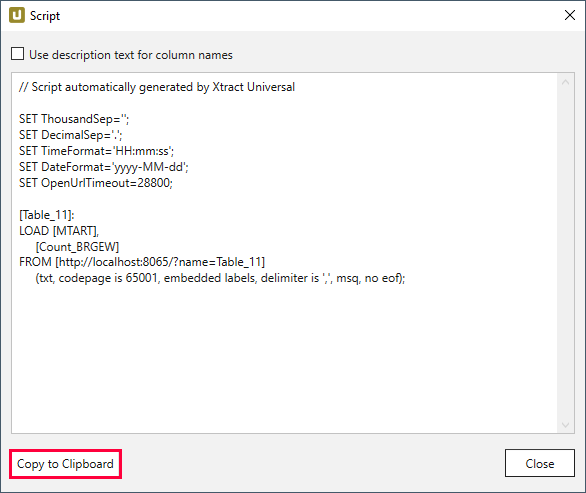
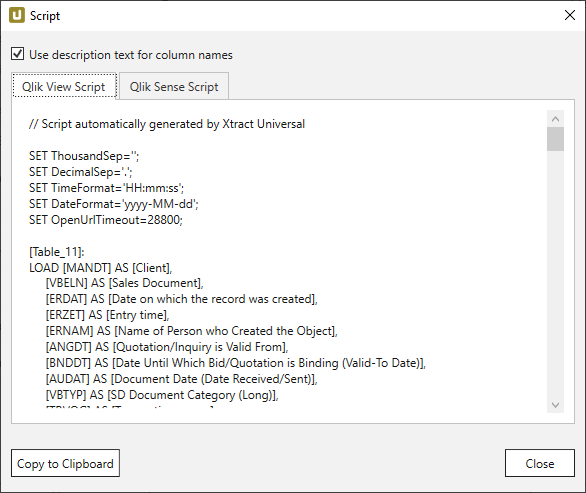
XU - EN - Qlik Destination überarbeitet

diff --git a/content/_en/xtract-universal/xu-destinations/qliksense-qlikview/settings-in-qlik-sense.md b/content/_en/xtract-universal/xu-destinations/qliksense-qlikview/settings-in-qlik-sense.md
@@ -1,28 +1,38 @@
 ---
-ref: xu-qliksense-qlikview-04
+ref: xu-qliksense-qlikview-05
 layout: page
-title: Settings in Qlik Sense
-description: Settings in Qlik Sense
+title: Settings in QlikSense
+description: Settings in QlikSense
 product: xtract-universal
 parent: qliksense-qlikview
 permalink: /:collection/:path
-weight: 4
+weight: 5
 lang: en_GB
 old_url: /Xtract-Universal-EN/default.aspx?pageid=settings_in_qliksense
 ---
 
-When using the qlik script generated by Xtract Universal in Qlik Sense you might be getting an error message like: *This statement only works with lib:// paths in this script mode*. 
 
-This is because the dynamic load of data from a web file is deactivated in Qlik Sense per default.
-On the Qlik Sense help site you can find how to activate it. Do a search for 'Disabling standard mode' or check the following [link](https://help.qlik.com/en-US/sense/2.2/Subsystems/Hub/Content/LoadData/disable-standard-mode.htm). 
+### Triggering an extraction from QlikSense
 
-In *Qlik Sense* deactivate the Standard Mode in Qlik Management Console -> Engine Properties.<br> 
-In *Qlik Sense Desktop* open the file C:\Users\{user}\Documents\Qlik\Sense\Settings.ini in a text editor. <br>Change StandardReload=1 to StandardReload=0. Save the file and restart Qlik Sense.
+Before using the Qlik script generated by Xtract Universal in QlikSense, you need to perform the following steps in QlikSense:
 
-Since Qlik Sense June 2018 only port 5555 (default port of Qlik Web Connectors) is allowed for WebFile connectivity connecting to *http://localhost*. 
-Hence, if you are getting a *Forbidden* or *Access is denied* error when executing a Qlik Sense report please check the following help pages.
+1. Create a new Data connection of type REST.
+2. Enter the URL of the Xtract Universal Server and port in the URL text box. In the screenshot below, the Xtract Universal server is running on http://localhost:8065/
+3. Enter *Xtract_Universal* in the Name text box.
 
-[Cannot load data from Qlik Web Connectors](https://help.qlik.com/en-US/connectors/Subsystems/Web_Connectors_help/Content/Connectors_QWC/Install/troubleshooting_load.htm?l=DE-DE).
+    ![XU_qlik_QlikSense_data_connection](/img/content/XU_qlik_QlikSense_data_connection.png){:class="img-responsive"}
 
-["Access is denied" when connecting to localhost with WebFile connection ](https://qliksupport.force.com/articles/000054581?_ga=2.234987393.1633897554.1546511952-1716671580.1545392499).
+
+4. Paste the QlikSense script from Xtract Universal into the QlikSense Data load editor.
+
+    ![XU_qlik_QlikSense_load_editor](/img/content/XU_qlik_QlikSense_load_editor.png){:class="img-responsive"}
+	
+5. Click on **[Load data]** to trigger an extraction in Xtract Universal and load the extracted SAP data directly to QlikSense.
+
+    ![XU_qlik_QlikSense_load_data_button](/img/content/XU_qlik_QlikSense_load_data_button.png){:class="img-responsive"}
+
+
+### QlikSense data load script explained
+
+Xtract Universal converts SAP data types into equivalent data types in QlikSense. Tags are used to specify description text, origin of a field in SAP as well as to connote fields of data type *date*.
 

diff --git a/content/_en/xtract-universal/xu-destinations/qliksense-qlikview/generating-data-load-script.md b/content/_en/xtract-universal/xu-destinations/qliksense-qlikview/generating-data-load-script.md
@@ -1,26 +1,30 @@
 ---
-ref: xu-qliksense-qlikview-05
+ref: xu-qliksense-qlikview-04
 layout: page
 title: Generating data load script
 description: Generating data load script
 product: xtract-universal
 parent: qliksense-qlikview
 permalink: /:collection/:path
-weight: 5
+weight: 4
 lang: en_GB
 old_url: /Xtract-Universal-EN/default.aspx?pageid=generating_data_load_script
 ---
-### Displaying a Qlik Script
+### Displaying the Qlik Data Load Script
 1. Run an extraction with a "Qlik" destination. The window "Run Extraction" opens.
 ![XU_qlik_generate_Script](/img/content/XU_qlik_generate_Script.png){:class="img-responsive"}
 2. Click **[Generate Qlik Script]** to generate a data load script. The window "Script" opens.
 
 ### Further Processing the Script
-1. Click **[Copy to Clipboard]** to copy the script.
-![XU_qlik_generate_Script](/img/content/XU_qlik_generate_Script_2.png){:class="img-responsive"}
-2. Paste the copied script into the data load editor in Qlik View or Qlik Sense.
+1. Select the *QlikView Script* or *QlikSense Script* tab
+2. Click **[Copy to Clipboard]** to copy the script.
+![XU_qlik_generate_Script](/img/content/XU_qlik_generate_Script_3.png){:class="img-responsive"}
+3. When using QlikView, paste the copied script into the QlikView data load editor. For QlikSense, see chapter [Settings in QlikSense](./settings-in-qlik-sense).
 
 {: .box-note }
-**Note:** the "SET methods" cannot be edited in the "Script" window. Edit the SET methods at the destination side. 
+**Note:** the "SET methods" cannot be edited in the "Script" window. Edit the SET methods in the Qlik data load editor. 
+
+
+
 
 

diff --git a/content/_en/xtract-universal/xu-destinations/qliksense-qlikview.md b/content/_en/xtract-universal/xu-destinations/qliksense-qlikview.md
@@ -1,8 +1,8 @@
 ---
 ref: xu-destinations-90
 layout: page
-title: QlikSense & Qlikview
-description: QlikSense & Qlikview
+title: QlikSense & QlikView
+description: QlikSense & QlikView
 product: xtract-universal
 parent: xu-destinations
 childidentifier: qliksense-qlikview
@@ -13,6 +13,10 @@ old_url: /Xtract-Universal-EN/default.aspx?pageid=einstellungen_in_qlik_sense
 progressstate: 5
 ---
 
-The following section describes the loading of the SAP extraction data from QlikSense or Qlikview.
+The following sections describe how Xtract Universal connects with QlikSense or QlikView.
+
+For this purpose Xtract Universal offers a destination of type *Qlik*. This destination generates a data load script which needs to be inserted in the data load editor of your qlik application. Depending on whether you run a QlikSense of QlikView application, Xtract Univeral creates a different data load script.
+
+Running the qlik application triggers the respective Xtract Universal extraction via the data load script. Xtract Universal sends the extracted SAP data through an http-csv stream directly to your qlik application.
 
 {% include _content/table-of-contents.html parent=page.childidentifier collection=site.en %}

diff --git a/content/_en/xtract-universal/xu-destinations/qliksense-qlikview/qq-connection.md b/content/_en/xtract-universal/xu-destinations/qliksense-qlikview/qq-connection.md
@@ -11,6 +11,17 @@ lang: en_GB
 old_url: /Xtract-Universal-EN/default.aspx?pageid=connection3
 ---
 
-There are no particular settings necessary for creating the Qlik destination. Just assign any name to it.
+### Adding a Qlik Destination
+1. In the main window of the Designer, navigate to **[Server] > [Manage Destinations]**. The window "Manage Destinations" opens.
+2. Click **[Add]** to add a new destination. The window "Destination Details" opens.
+![XU_parquet_Destination](/img/content/xu/parquet/parquet_manage_destination.png){:class="img-responsive"}
+3. Select the *Qlik* destination from the drop-down list.
+4. Click **[OK]** to confirm.
+
+### Destination Details
+The window "Destination Details" consists of three subsections:
+- Name - Destination name
+- Type - Destination type
 
 ![XU_qlik_destination](/img/content/XU_qlik_destination.png){:class="img-responsive"}
+

diff --git a/content/_en/xtract-universal/xu-destinations/qliksense-qlikview/qq-requirements.md b/content/_en/xtract-universal/xu-destinations/qliksense-qlikview/qq-requirements.md
@@ -11,4 +11,4 @@ lang: en_GB
 old_url: /Xtract-Universal-EN/default.aspx?pageid=requirements4
 ---
 
-There are no particular requirements for using the Qlik destination.
+There are no particular technical prerequisites for using the Qlik destination.
